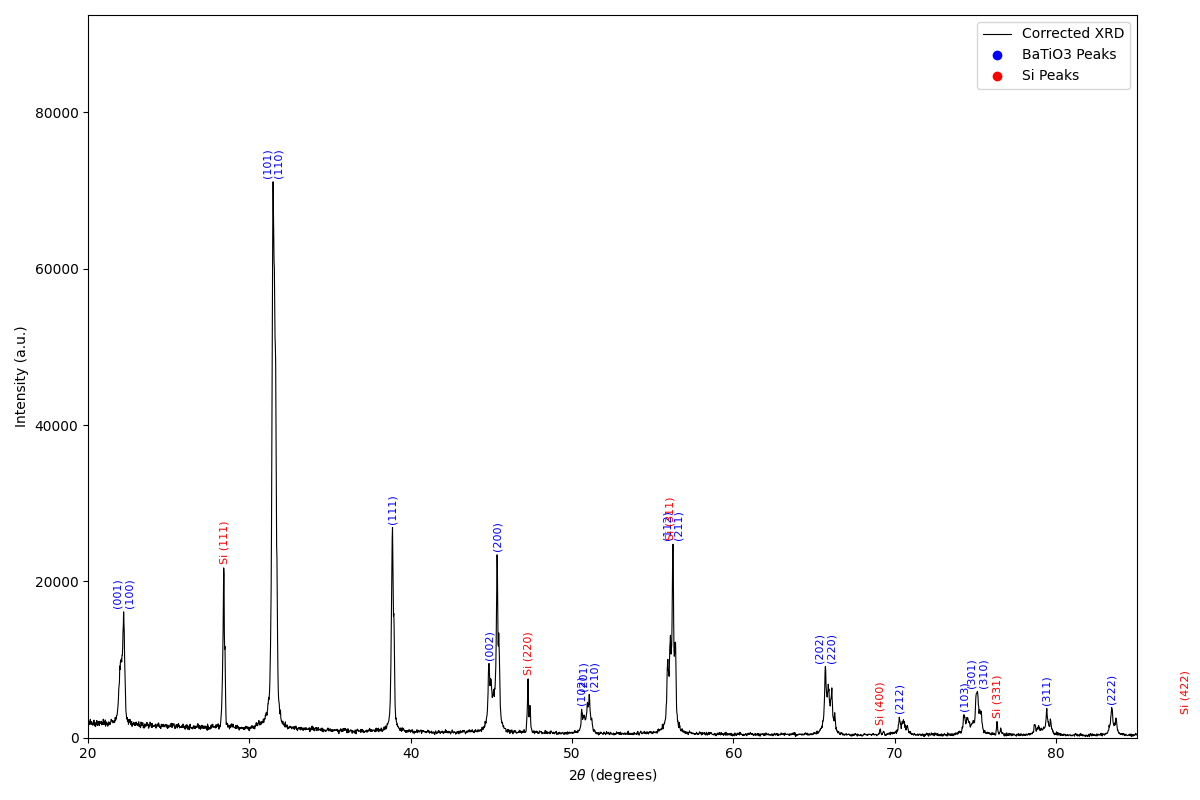
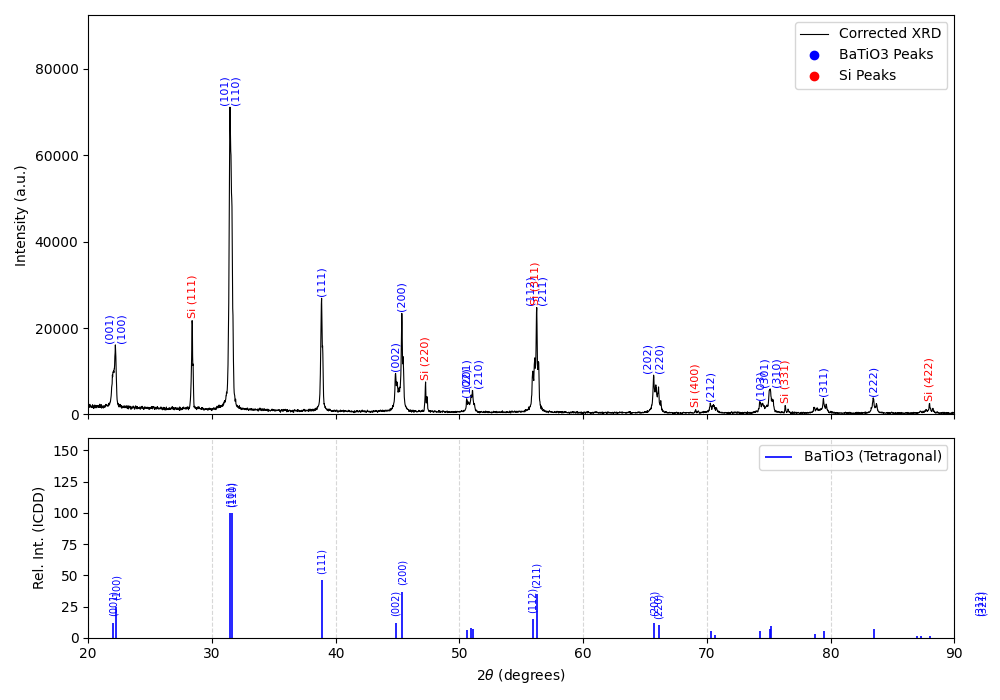
グラフ描画範囲を調整

diff --git a/basic/XRD_Si_old.py b/basic/XRD_Si_old.py
@@ -5,11 +5,9 @@ from scipy.signal import find_peaks
 
 # 1. 実験データの読み込み
 # filename = 'C:\\Users\\kurot\\LaTeX\\20254Q\\gtICDDデータ類-20260105\\7-1_本焼.txt'
-sample_name = "7-1_本焼"
-filename = f"basic/data/gtICDDデータ類-20260106/{sample_name}.txt"
+filename = "basic/data/gtICDDデータ類-20260106/7-1_本焼.txt"
+
 data = []
-# ファイルが存在しない場合のエラーハンドリングを追加する場合、try-exceptブロックを使用しますが、
-# 元のコードに従いそのまま記述します。
 with open(filename, "r", encoding="utf-8", errors="ignore") as f:
     for line in f:
         if line.startswith("*"):
@@ -23,9 +21,10 @@ with open(filename, "r", encoding="utf-8", errors="ignore") as f:
 df = pd.DataFrame(data, columns=["2theta", "Intensity"])
 
 # 2. Si標準データの読み込みと補正
-# si_std_df = pd.read_csv('C:\\Users\\kurot\\LaTeX\\20254Q\\gtICDDデータ類-20260105\\Si_標準.csv', encoding='cp932')
 si_std_df = pd.read_csv(
-    "basic/data/gtICDDデータ類-20260106/Si_標準.csv", encoding="cp932"
+    # "C:\\Users\\kurot\\LaTeX\\20254Q\\gtICDDデータ類-20260105\\Si_標準.csv",
+    "basic/data/gtICDDデータ類-20260106/Si_標準.csv",
+    encoding="cp932",
 )
 print("Si Standard Data Loaded")
 
@@ -69,26 +68,30 @@ if len(correction_points) > 1:
     coeffs = np.polyfit(obs, diff, 1)
     correction_func = np.poly1d(coeffs)
 
+    # --- 補正曲線のプロット (表示したい場合) ---
+    # plt.figure(figsize=(8, 6))
+    # plt.scatter(obs, diff, color='blue', label='Experimental Data')
+    # x_range = np.linspace(obs.min() - 5, obs.max() + 5, 100)
+    # plt.plot(x_range, correction_func(x_range), 'r--', label='Linear Fit')
+    # plt.show()
+    # ---------------------------------------
+
     # データを補正
     df["2theta_corr"] = df["2theta"] + correction_func(df["2theta"])
 else:
     print("Warning: Not enough Si peaks found. No correction applied.")
     df["2theta_corr"] = df["2theta"]
 
-# 3. 格子定数の算出 (BaTiO3) と誤差評価
+# 3. 格子定数の算出 (BaTiO3)
 # 44-46度の(002)/(200)分裂ピーク
 roi = df[(df["2theta_corr"] >= 44.0) & (df["2theta_corr"] <= 46.0)]
-roi_peaks_idx, _ = find_peaks(roi["Intensity"], height=800, distance=35)
+roi_peaks_idx, _ = find_peaks(roi["Intensity"], height=800, distance=5)
 roi_peaks = roi.iloc[roi_peaks_idx]
 
 # 波長 (Cu Ka1)
 lam = 1.54056
 c_calc = 4.038  # Default
 a_calc = 3.994  # Default
-
-# 誤差計算用の設定
-delta_2theta_deg = 0.02  # 読み取り精度 (2θの誤差)
-delta_theta_rad = np.radians(delta_2theta_deg / 2)  # θの誤差 (ラジアン)
 
 if len(roi_peaks) >= 2:
     # 強度上位2つを取得
@@ -99,37 +102,14 @@ if len(roi_peaks) >= 2:
     p002 = top2_sorted.iloc[0]["2theta_corr"]
     p200 = top2_sorted.iloc[1]["2theta_corr"]
 
-    # --- 格子定数の計算 ---
-    theta002_rad = np.radians(p002 / 2)
-    d002 = lam / (2 * np.sin(theta002_rad))
+    d002 = lam / (2 * np.sin(np.radians(p002 / 2)))
+    d200 = lam / (2 * np.sin(np.radians(p200 / 2)))
+
     c_calc = 2 * d002
-
-    theta200_rad = np.radians(p200 / 2)
-    d200 = lam / (2 * np.sin(theta200_rad))
     a_calc = 2 * d200
-
-    # --- 誤差の計算 (誤差伝播則: Δd = d * cot(θ) * Δθ) ---
-    # c軸の誤差
-    delta_d002 = d002 * (1 / np.tan(theta002_rad)) * delta_theta_rad
-    delta_c = 2 * delta_d002
-
-    # a軸の誤差
-    delta_d200 = d200 * (1 / np.tan(theta200_rad)) * delta_theta_rad
-    delta_a = 2 * delta_d200
-
-    print("-" * 50)
-    print(f"Peak (002) 2theta: {p002:.4f} deg")
-    print(f"Peak (200) 2theta: {p200:.4f} deg")
-    print("-" * 50)
-    print(
-        f"Calculated Lattice Constants (with error from 2theta accuracy {delta_2theta_deg} deg):"
-    )
-    print(f"a = {a_calc:.5f} +/- {delta_a:.5f} Å")
-    print(f"c = {c_calc:.5f} +/- {delta_c:.5f} Å")
-    print("-" * 50)
+    print(f"Calculated: a={a_calc:.4f}, c={c_calc:.4f}")
 
 # 4. 指数付け (BaTiO3 Reference CSV使用)
-# ref_df = pd.read_csv('C:\\Users\\kurot\\LaTeX\\20254Q\\gtICDDデータ類-20260105\\1_BaTiO3-tetragonal.csv')
 ref_df = pd.read_csv("basic/data/gtICDDデータ類-20260106/1_BaTiO3-tetragonal.csv")
 labels = []
 # 強度が低いピークは除外
@@ -153,14 +133,19 @@ for _, row in ref_strong.iterrows():
         (df["2theta_corr"] >= theo_th - 0.5) & (df["2theta_corr"] <= theo_th + 0.5)
     ]
     if not window.empty:
-        window_peaks_idx, _ = find_peaks(window["Intensity"], height=300, distance=40)
+        window_peaks_idx, _ = find_peaks(window["Intensity"], height=300)
         if len(window_peaks_idx) > 0:
             best_idx = window.iloc[window_peaks_idx]["Intensity"].idxmax()
             real_th = df.loc[best_idx, "2theta_corr"]
             inten = df.loc[best_idx, "Intensity"]
 
             labels.append(
-                {"label": f"({h}{k}{l})", "x": real_th, "y": inten, "color": "blue"}
+                {
+                    "label": f"({h}{k}{l})",
+                    "x": real_th,
+                    "y": inten,
+                    "color": "blue",  # ★変更点: BaTiO3の色を指定
+                }
             )
 
 # ラベルの重なり処理
@@ -175,7 +160,7 @@ if labels:
             if next_l["y"] > curr["y"]:
                 curr["x"] = next_l["x"]
                 curr["y"] = next_l["y"]
-                # 色はcurrを引き継ぎます
+                # 色はcurr(最初に検出されたもの)を引き継ぎます
         else:
             unique_labels.append(curr)
             curr = next_l
@@ -190,20 +175,21 @@ for p in correction_points:
     if not window.empty:
         y_pos = window["Intensity"].max()
         unique_labels.append(
-            {"label": p["hkl"], "x": search_th, "y": y_pos, "color": "red"}
+            {
+                "label": p["hkl"],
+                "x": search_th,
+                "y": y_pos,
+                "color": "red",  # ★変更点: Siの色を指定
+            }
         )
 
 # 5. プロット
-fig, (ax1, ax2) = plt.subplots(
-    2, 1, figsize=(10, 7), sharex=True, gridspec_kw={"height_ratios": [2, 1]}
-)
-
-# ax1への描画
-ax1.plot(df["2theta_corr"], df["Intensity"], "k-", linewidth=0.8, label="Corrected XRD")
+plt.figure(figsize=(12, 8))
+plt.plot(df["2theta_corr"], df["Intensity"], "k-", linewidth=0.8, label="Corrected XRD")
 
 # ラベルの描画
 for l in unique_labels:
-    ax1.text(
+    plt.text(
         l["x"],
         l["y"] + 500,
         l["label"],
@@ -212,53 +198,19 @@ for l in unique_labels:
         va="bottom",
         fontsize=8,
         color=l["color"],
-    )
+    )  # ★変更点: 指定した色でテキストを描画
 
-ax1.plot([], [], "o", color="blue", label="BaTiO3 Peaks", linestyle="None")
-ax1.plot([], [], "o", color="red", label="Si Peaks", linestyle="None")
+# ★変更点: 凡例用のダミープロットを追加
+# 実際のデータはプロットせず、ラベルと色だけを凡例に登録します
+plt.plot([], [], "o", color="blue", label="BaTiO3 Peaks", linestyle="None")
+plt.plot([], [], "o", color="red", label="Si Peaks", linestyle="None")
 
-ax1.legend()
-# ax1.set_xlabel(r"2$\theta$ (degrees)")
-ax1.set_ylabel("Intensity (a.u.)")
-ax1.set_ylim(0, df["Intensity"].max() * 1.3)  # タイトルにも結果を表示
-
-# ax2への描画
-ax2.vlines(
-    ref_df["2Theta(deg)"],
-    0,
-    ref_df["I(f)"],
-    colors="blue",
-    linewidth=1.2,
-    label="BaTiO3 (Tetragonal)",
-)
-
-# 各スティックの上に指数のラベルを表示
-for _, row in ref_df.iterrows():
-    if row["I(f)"] >= 10:  # 強度10以上のピークにラベルを表示
-        ax2.text(
-            row["2Theta(deg)"],
-            row["I(f)"] + 5,  # スティックの少し上に配置
-            f"({int(row['h'])}{int(row['k'])}{int(row['l'])})",
-            rotation=90,
-            ha="center",
-            va="bottom",
-            fontsize=7,
-            color="blue",
-        )
-
-# ax2 の書式設定
-ax2.set_ylabel("Rel. Int. (ICDD)")
-ax2.set_ylim(0, 160)  # ラベルが見切れないように高さを調整
-ax2.legend(loc="upper right")
-ax2.grid(
-    axis="x", linestyle="--", alpha=0.5
-)  # ピーク位置を ax1 と比較しやすくするために縦グリッドを追加
-
-# 共通のX軸設定 (一番下の ax2 に設定)
-ax2.set_xlabel(r"2$\theta$ (degrees)")
-ax2.set_xlim(20, 90)  # プロット範囲を少し広げました
-
+plt.legend()
+plt.xlabel(r"2$\theta$ (degrees)")
+plt.ylabel("Intensity (a.u.)")
+plt.xlim(20, 90)
+plt.ylim(0, df["Intensity"].max() * 1.3)
 plt.tight_layout()
-plt.savefig(f"basic/out/{sample_name}.png")
-# plt.show()
+plt.savefig("basic/out/7-1_本焼.png")
+plt.show()
 plt.close()
